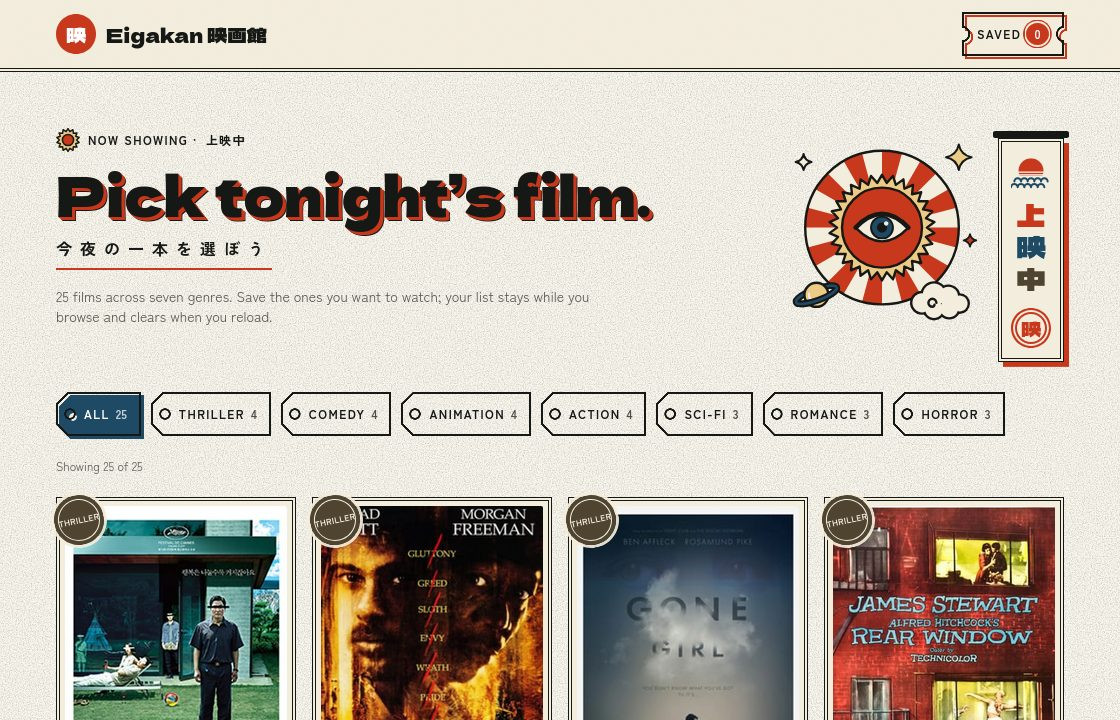
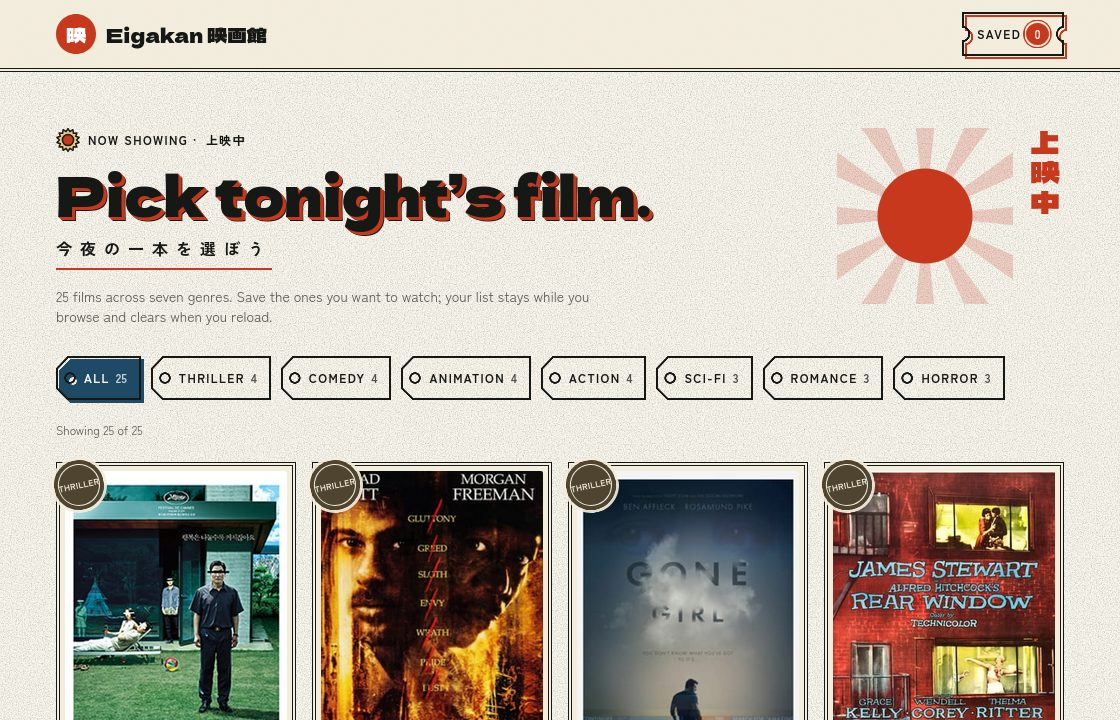
Return the /movies hero motif to the c54bb09 rising sun
The right of the hero is the plain Hinomaru sun with soft rays beside
上映中 set vertically in red again, instead of the Yokoo eye-sun and the
Osaka signboard. The heading, its gloss and the small aura sun before
"Now showing" stay. HeroSun and SunMark are no longer drawn anywhere
and are removed; the signboard and the other drawings stay in the
Shōwa page's drawing kit, whose notes no longer point at the hero. The
landing page's /movies preview is reshot.

Changed region(s): [[0.0312, 0.6417, 0.9688, 1.0], [0.0312, 0.1833, 0.9688, 0.6111], [0.5312, 0.9472, 0.6562, 1.0]]

diff --git a/components/system/drawing-kit.tsx b/components/system/drawing-kit.tsx
@@ -37,15 +37,15 @@ const groups: { picture: string; elements: Element[] }[] = [
     elements: [
       { name: "Block type", jp: "立体文字", note: "Display type stands on a Hinomaru extrusion, closed by a Sumi edge.",
         art: <span aria-hidden lang="ja" className="ds-display grid h-20 place-items-center justify-self-start text-[64px] leading-none">映</span> },
-      { name: "Rays", jp: "旭日", note: "Alternating wedges radiate from the hero sun.",
+      { name: "Rays", jp: "旭日", note: "Alternating wedges radiate from a sun, as in Yokoo's poster.",
         art: tile(<><Rays cx={40} cy={40} r={37} n={16} ground={c.washi} /><circle cx={40} cy={40} r={37} fill="none" stroke={c.sumi} strokeWidth={2.5} /></>) },
-      { name: "Aura", jp: "後光", note: "A sawtooth halo rings the hero sun and the small sun before Now showing.",
+      { name: "Aura", jp: "後光", note: "A sawtooth halo rings the small sun before Now showing.",
         art: tile(<><Aura cx={40} cy={40} r={36} teeth={22} depth={0.2} k={2.5} /><circle cx={40} cy={40} r={20} fill={c.hinomaru} stroke={c.sumi} strokeWidth={2.5} /></>) },
       { name: "Sparkle", jp: "キラキラ", note: "Four-point stars fill the gaps; a switched-on toggle turns into one.",
         art: tile(<><Sparkle x={34} y={42} r={26} k={2.5} /><Sparkle x={64} y={18} r={11} fill={c.hinomaru} k={2} /></>) },
-      { name: "Planet", jp: "惑星", note: "A ringed planet drifts past the hero sun's rim.", art: tile(<Planet cx={40} cy={40} r={19} k={2.5} />) },
-      { name: "Cloud", jp: "雲", note: "Scalloped puffs drift over the sun's rim.", art: tile(<Cloud x={16} y={42} s={0.95} k={2.5} />) },
-      { name: "Eye", jp: "目", note: "The cinema's eye looks out from the hero sun.", art: tile(<Eye cx={40} cy={40} w={66} k={2.5} />) },
+      { name: "Planet", jp: "惑星", note: "A ringed planet, its band passing behind and coming round in front.", art: tile(<Planet cx={40} cy={40} r={19} k={2.5} />) },
+      { name: "Cloud", jp: "雲", note: "Scalloped puffs with one curl inside.", art: tile(<Cloud x={16} y={42} s={0.95} k={2.5} />) },
+      { name: "Eye", jp: "目", note: "An almond eye with a heavy lid and an Ai iris.", art: tile(<Eye cx={40} cy={40} w={66} k={2.5} />) },
       { name: "Hand", jp: "指差し", note: "Points down the select, instead of an arrow.", art: tile(<Hand x={6} y={24} s={1.08} k={2.5} />) },
       { name: "Film strip", jp: "フィルム", note: "Sprocket bands divide this page's sections and frame the toast.",
         art: tile(<><rect x={0} y={30} width={80} height={20} fill={c.sumi} />{strip}</>) },
@@ -56,7 +56,7 @@ const groups: { picture: string; elements: Element[] }[] = [
   {
     picture: "Color TV Ad · picture 25",
     elements: [
-      { name: "Natural color", jp: "天然色", note: "A native word prints its first three characters in Hinomaru, Ai and Kogecha: the hero sign, this page's title.",
+      { name: "Natural color", jp: "天然色", note: "A native word prints its first three characters in Hinomaru, Ai and Kogecha: the signboard, this page's title.",
         art: <span aria-hidden lang="ja" className="ds-heading flex h-20 items-center text-[30px] leading-none"><span><Tenneniro text="映画館" /></span></span> },
       { name: "Knob", jp: "つまみ", note: "Radios turn their pointer to 12 o'clock and light their face Ai when chosen.",
         art: box(<span className="flex items-center gap-3">{knob(false)}{knob(true)}</span>) },
@@ -65,7 +65,7 @@ const groups: { picture: string; elements: Element[] }[] = [
   {
     picture: "Osaka Rainy Night · picture 26",
     elements: [
-      { name: "Signboard", jp: "看板", note: "Stands beside the hero sun: a capped board, its word set top to bottom, the cinema's stamp below.",
+      { name: "Signboard", jp: "看板", note: "A capped board, its word set top to bottom in 天然色, the cinema's stamp below.",
         art: box(<div className="[zoom:0.36]"><Signboard text="上映中" stamp="映" /></div>) },
     ],
   },

diff --git a/components/system/yokoo.tsx b/components/system/yokoo.tsx
@@ -2,7 +2,7 @@
 // Shōwa's drawing kit, after the Tadanori Yokoo picture on the Japanese Retro board (picture 22): flat fills inside
 // heavy Sumi keylines, rising-sun rays, a sawtooth aura (後光) around whatever is in focus, four-point sparkles,
 // ringed planets, scalloped clouds, the eye at the sun's centre, and a pointing hand. Kinari is only ever a fill
-// inside Sumi (app/systems.ts). motifs.tsx composes these into the hero and the ornament; drawing-kit.tsx shows them.
+// inside Sumi (app/systems.ts). motifs.tsx uses the small sun as the ornament; drawing-kit.tsx shows the rest.
 import { useId } from "react";
 import { colors } from "@/app/boards";
 import { showa } from "@/app/systems";
@@ -117,53 +117,12 @@ export function Hand({ x, y, s = 1, rotate = 0, k }: { x: number; y: number; s?:
   );
 }
 
-// The rising sun, drawn the Yokoo way: alternating rays in a keylined disc, the sawtooth aura, the red sun, and at
-// its centre the cinema's eye or a glyph. Drawn in a 200-unit box around (cx, cy), scaled by r / 100.
-export function SunMark({ cx = 100, cy = 100, r = 100, eye = false, glyph, rays = true, k = 3 }: {
-  cx?: number; cy?: number; r?: number; eye?: boolean; glyph?: string; rays?: boolean; k?: number;
-}) {
-  const s = r / 100;
-  const ks = k / s;
-  return (
-    <g transform={`translate(${cx - 100 * s} ${cy - 100 * s}) scale(${s})`}>
-      {rays && (
-        <>
-          <Rays cx={100} cy={100} r={96} n={24} ground={c.washi} />
-          <circle cx={100} cy={100} r={96} fill="none" stroke={c.sumi} strokeWidth={ks} />
-        </>
-      )}
-      <Aura cx={100} cy={100} r={rays ? 66 : 96} teeth={rays ? 30 : 26} depth={rays ? 0.15 : 0.18} k={ks} />
-      <circle cx={100} cy={100} r={rays ? 50 : 70} fill={c.hinomaru} stroke={c.sumi} strokeWidth={ks} />
-      {eye && <Eye cx={100} cy={100} w={66} k={ks} />}
-      {glyph && (
-        <text x={100} y={100} dy="0.36em" textAnchor="middle" fontSize={rays ? 52 : 74} fill="#fff" style={{ fontFamily: "var(--ds-display-font)" }}>
-          {glyph}
-        </text>
-      )}
-    </g>
-  );
-}
-
 // A pocket version of the sun for 20px ornaments: aura and disc, keylines kept thick enough to print.
 export function SmallSun({ className = "" }: { className?: string }) {
   return (
     <svg aria-hidden viewBox="0 0 24 24" className={className}>
       <polygon points={burst(12, 12, 11.4, 8.6, 14)} fill={c.kinari} stroke={c.sumi} strokeWidth="1.5" strokeLinejoin="round" />
       <circle cx="12" cy="12" r="5.6" fill={c.hinomaru} stroke={c.sumi} strokeWidth="1.5" />
-    </svg>
-  );
-}
-
-// The hero: the sun with the eye at its centre, a planet and a cloud drifting over its rim, and sparkles.
-export function HeroSun({ className = "" }: { className?: string }) {
-  return (
-    <svg aria-hidden viewBox="0 0 240 240" className={className}>
-      <SunMark cx={120} cy={112} r={100} eye />
-      <Planet cx={38} cy={196} r={15} k={3} />
-      <Cloud x={170} y={204} k={3} />
-      <Sparkle x={216} y={24} r={16} k={2.5} />
-      <Sparkle x={22} y={30} r={10} fill={c.washi} k={2.5} />
-      <Sparkle x={230} y={128} r={8} fill={c.hinomaru} k={2} />
     </svg>
   );
 }

diff --git a/app/systems.ts b/app/systems.ts
@@ -64,7 +64,7 @@ export const showa: DesignSystem = {
   name: "Shōwa",
   alt: "昭和",
   board: japaneseRetro,
-  essence: "Shōwa-era poster print: fat gothic type and cinema tickets in color plates that never quite line up, with Tadanori Yokoo's rising sun and an Osaka signboard in 天然色 in the hero.",
+  essence: "Shōwa-era poster print: fat gothic type extruded the Yokoo way, a rising sun, and cinema tickets in color plates that never quite line up.",
   colors: {
     background: "washi",
     surface: "kinari",
@@ -97,8 +97,8 @@ export const showa: DesignSystem = {
   icons: { save: "A bold plus, printed in the stub.", saved: "◎ nijū-maru, the double circle that marks the best choice.", remove: "A bold cross." },
   texture: { name: "Washi grain", note: "Fine paper fibres over Washi Cream, from the print toolkit's grain filter." },
   motif: {
-    name: "Yokoo sun on a Shōwa street",
-    note: "From four pictures on Mood Board 01, gathered in the hero around a plain film list (a plain header, posters in a double Sumi rule, Category badges as round seals, a 済 (“done”) seal on saved posters, a plain rising sun holding 空 when nothing is saved). Tadanori Yokoo (22): extruded Display type and a rayed sun in a sawtooth aura with the cinema's eye at its centre. Osaka Rainy Night (26): a capped signboard reading 上映中 beside the sun. Koi Pond (02): the sun rising over waves that heads the signboard. Color TV Ad (25): the signboard's word in 天然色. On this page panels take flag corners, film strips divide the sections, and radios are a color TV's knobs.",
+    name: "Rising sun",
+    note: "A Hinomaru disc with soft rays beside 上映中 set vertically leads the hero; the same sun holds 空 when nothing is saved, and a 済 (“done”) seal lands on saved posters. From the Yokoo picture (22), the hero heading stands on an extrusion and a small sun in a sawtooth aura marks Now showing. This page also carries a drawing kit from four Mood Board 01 pictures (Yokoo 22, Koi Pond 02, Color TV Ad 25, Osaka Rainy Night 26): panels take flag corners, film strips divide the sections, radios are a color TV's knobs, and the title prints in 天然色.",
   },
   feel: { hover: "The red plate drifts further out of register.", press: "The plate snaps into register." },
 };

diff --git a/components/system/motifs.tsx b/components/system/motifs.tsx
@@ -1,13 +1,11 @@
 "use client";
 // Each system's signature motif, and the empty state built on it:
-// Shōwa: a Yokoo rising sun (components/system/yokoo.tsx) beside an Osaka signboard (osaka.tsx), and a plain rising
-// sun holding 空 for the empty state · Ben-Day: a starburst and speech balloons · Haipai: cloud scrolls and seals.
+// Shōwa: a rising sun and vertical 上映中 · Ben-Day: a starburst and speech balloons · Haipai: cloud scrolls and seals.
 import { colors } from "@/app/boards";
 import { systems } from "@/app/systems";
 import { burst } from "@/components/artifacts/print";
 import { useSystemId } from "./context";
-import { Signboard } from "./osaka";
-import { HeroSun, SmallSun } from "./yokoo";
+import { SmallSun } from "./yokoo";
 
 const palette = (id: string) => colors(systems.find((s) => s.id === id)!.board);
 
@@ -87,9 +85,9 @@ export function HeroMotif({ count }: { count: number }) {
   const id = useSystemId();
   if (id === "showa")
     return (
-      <div aria-hidden className="pointer-events-none flex items-start gap-5 pt-2.5">
-        <HeroSun className="h-32 w-32 md:h-48 md:w-48" />
-        <Signboard text="上映中" stamp="映" />
+      <div aria-hidden className="pointer-events-none flex items-start gap-3">
+        <Sun className="h-28 w-28 md:h-44 md:w-44" />
+        <span lang="ja" className="ds-native text-(--ds-accent)" style={{ writingMode: "vertical-rl", fontSize: 30 }}>上映中</span>
       </div>
     );
   if (id === "ben-day")

diff --git a/app/system.css b/app/system.css
@@ -557,10 +557,9 @@
      the 2px Sumi keyline, drifts further on hover and snaps into register on press. Eigakan keeps to that: a plain
      header under a double rule, posters in a double Sumi rule, Category badges as round seals, a 済 seal on saved
      posters. Kinari is only ever a fill inside Sumi. Checked boxes take a ◯, the mark for "yes" on Japanese forms.
-     The posters' drawings gather in the hero and on this system's page: extruded Display type and a Yokoo sun (22)
-     beside an Osaka signboard (26) headed by a sun over waves (02), its word in 天然色 (25). On the Design System
-     page panels take flag corners, film strips divide the sections and frame the toast, and radios are a color TV's
-     knobs (25).
+     The hero heading is extruded the Yokoo way (picture 22) and glossed in tracked type over a red rule (25). On the
+     Design System page panels take flag corners, film strips divide the sections and frame the toast, radios are a
+     color TV's knobs (25), and the drawing kit shows the signboard (26) and the rest of the four pictures' drawings.
      =================================================================================================== */
   [data-system="showa"] {
     /* A film strip: Washi sprocket holes punched in a Sumi band. */

diff --git a/components/system/osaka.tsx b/components/system/osaka.tsx
@@ -1,7 +1,7 @@
 "use client";
 // Shōwa's drawing kit after Osaka Rainy Night on the Japanese Retro board (picture 26): the vertical signboards
-// (看板) of Dōtonbori, each a framed board with a cap. The signboard stands beside the hero sun, headed by a sun over
-// waves (koi.tsx) and closed by the cinema's ringed stamp.
+// (看板) of Dōtonbori, each a framed board with a cap, headed here by a sun over waves (koi.tsx) and closed by the
+// cinema's ringed stamp. drawing-kit.tsx shows it.
 import { SunOverWaves } from "./koi";
 import { Tenneniro } from "./terebi";
 

diff --git a/CLAUDE.md b/CLAUDE.md
@@ -28,8 +28,8 @@ board (spec: issue #5; why: `docs/adr/0001-one-design-system-per-mood-board.md`)
   poster, header, motifs, empty state, icons). Shōwa's drawing kit is one file per Mood Board 01 picture:
   `yokoo.tsx` (22: rays, sawtooth aura, sparkles, planet, cloud, eye, pointing hand, the hero sun), `koi.tsx` (02: the
   sun over waves), `terebi.tsx` (25: `Tenneniro` 天然色 per-character inks) and `osaka.tsx` (26: the hero
-  signboard); `drawing-kit.tsx` shows them on Shōwa's page. On Eigakan they gather in the `/movies` hero; the header,
-  film list, empty state and footer stay plain. The knob radios are CSS in `app/system.css`. Style them through `app/system.css`, not per-page classes; frozen
+  signboard); `drawing-kit.tsx` shows them on Shōwa's page. Eigakan stays plain apart from the `/movies` hero's
+  extruded heading, gloss and small aura sun. The knob radios are CSS in `app/system.css`. Style them through `app/system.css`, not per-page classes; frozen
   hover/focus/pressed states use `data-state`. Each system gives the same controls its own shape (Shōwa tickets and
   shop tags, Ben-Day leaning panels, coupons and speech balloons, Haipai Deco octagons and mahjong tiles), drawn on
   `::before`/`::after` with masks so the element itself keeps its focus ring; `Icon` draws Save/Saved/Remove in the
